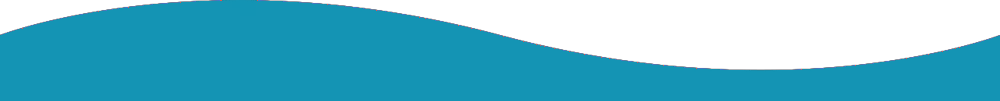
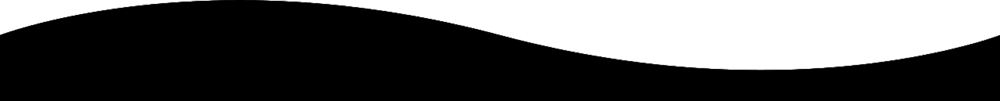
Footer modification

diff --git a/client/src/components/Footer.css b/client/src/components/Footer.css
@@ -1,11 +1,9 @@
 .footer {
-  /* background-color: #1697b7; */
-  background-color: #F3F4F6;
+  background-color: black;
   font-size: 1.2rem;
   padding: 2rem 0;
   margin-top: 10rem;
   /* margin-left: 12rem; */
-  
   position: relative;
 }
 .footer-col1 a {
@@ -17,9 +15,11 @@
   letter-spacing: 2px;
 }
 .footer-col1 span {
+  font-size: 20px;
   color: #e7804b;
 }
 .footer-col1 p {
+  color: #fff;
   padding: 0 5rem 0.8rem 0;
   text-align: justify;
 }
@@ -29,27 +29,31 @@
 }
 .footer-icons i {
   display: inline-block;
-  background-color: #a9a9a95e;
+  background-color: white;
   color: #e7804b;
   border-radius: 50%;
-  font-size: 1.5rem;
   padding: 0.5rem;
   margin: 0 0.5rem;
   transition: 0.6s;
 }
 .footer-icons i:hover {
   background-color: #e7804b;
-  color: #f3f3f3;
+  color: white;
   transform: translateY(-10px);
   cursor: pointer;
 }
 .footer h3 {
-  color:#f3f3f3;
+  color: white;
 }
-
+.footer-col2 h3 {
+  color: #e7804b;
+}
 .footer-col2 ul {
   list-style: none;
   padding-left: 0;
+}
+.footer-col2 li {
+  color: #fff;
 }
 .footer-col2 ul a {
   text-decoration: none;
@@ -60,103 +64,98 @@
 }
 .footer-col2 ul li:hover {
   opacity: 0.75;
+  color: #e7804b;
 }
-
+.footer-col3 h3 {
+  color: #e7804b;
+}
 .footer-col3 i {
   position: absolute;
   font-size: 1.5rem;
+  color:#e7804b
 }
 .footer-col3 p {
+  color: #fff;
   padding-left: 30px;
   font-size: 1.2rem;
 }
 .footer-end {
-margin-top:2rem;
+  margin-top: 2rem;
   text-align: center;
   padding: 2rem 0;
   border-top: 4px solid #fff;
+  color: #fff;
+}
 
-}
-.footer-end p {
-  font-size: 1.2rem;
-  font-weight: 600;
-}
 .custom-shape-divider-top-1702510797 {
-    position: absolute;
-    top: 15rem;
-    left: 0;
-    width: 100%;
-    overflow: hidden;
-    line-height: 0;
+  position: absolute;
+  top: 15rem;
+  left: 0;
+  width: 100%;
+  overflow: hidden;
+  line-height: 0;
 }
 
 .custom-shape-divider-top-1702510797 svg {
-    display: block;
-    width: calc(122% + 1.3px);
-    height: 500px;
-    transform: rotate(180deg);
-
+  display: block;
+  width: calc(122% + 1.3px);
+  height: 500px;
+  transform: rotate(180deg);
 }
 
 /* .custom-shape-divider-top-1702510797 .shape-fill {
     fill: #1697B7;
 } */
 
-.waves{
-    margin-top:5rem;
+.waves {
+  margin-top: 5rem;
 }
-.wave{
-    position: absolute;
-    top:-100px;
-    left:0;
-    width: 100%;
-    height: 100px;
-    background: url(./assets/waves.png);
-    background-size:1000px 100px;
-
+.wave {
+  position: absolute;
+  top: -100px;
+  left: 0;
+  width: 100%;
+  height: 100px;
+  background: url(./assets/waves.png);
+  background-size: 1000px 100px;
 }
-.wave#wave1{
-    z-index: 1000;
-    opacity: 0.9;
-    bottom: 0;
-    animation: animateWave 4s linear infinite;
+.wave#wave1 {
+  z-index: 1000;
+  opacity: 0.9;
+  bottom: 0;
+  animation: animateWave 4s linear infinite;
 }
-.wave#wave2{
-    z-index: 999;
-    opacity: 0.3;
-    bottom: 10px;
-    animation: animateWave2 4s linear infinite;
+.wave#wave2 {
+  z-index: 999;
+  opacity: 0.3;
+  bottom: 10px;
+  animation: animateWave2 4s linear infinite;
 }
-.wave#wave3{
-    z-index: 1000;
-    opacity: 0.2;
-    bottom: 15px;
-    animation: animateWave 4s linear infinite;
+.wave#wave3 {
+  z-index: 1000;
+  opacity: 0.2;
+  bottom: 15px;
+  animation: animateWave 4s linear infinite;
 }
-.wave#wave4{
-    z-index: 999;
-    opacity: 0.7;
-    bottom: 20px;
-    animation: animateWave2 4s linear infinite;
+.wave#wave4 {
+  z-index: 999;
+  opacity: 0.7;
+  bottom: 20px;
+  animation: animateWave2 4s linear infinite;
 }
 @keyframes animateWave {
-    0%
-    {
-        background-position-x: 1000px;
-    }
-    100%
-    {
-        background-position-x:0px ;
-    }
-    
+  0% {
+    background-position-x: 1000px;
+  }
+  100% {
+    background-position-x: 0px;
+  }
 }
 @keyframes animateWave2 {
-    0%
-    {
-        background-position-x: 0px;
-    }
-    100%
-    {
-        background-position-x:1000px ;
-    }
+  0% {
+    background-position-x: 0px;
+  }
+  100% {
+    background-position-x: 1000px;
+  }
 }

diff --git a/client/src/components/CarrouselHome.jsx b/client/src/components/CarrouselHome.jsx
@@ -1,8 +1,4 @@
 import Carousel from 'react-bootstrap/Carousel';
-import bg1 from "./assets/Background1.jpg";
-import bg2 from "./assets/Background2.jpg";
-import bg3 from "./assets/Background3.jpg";
-import bg4 from "./assets/Background4.jpg";
 import bg5 from "./assets/Background5.jpg";
 import bg6 from "./assets/Background6.jpg";
 import bg7 from "./assets/Background7.jpg";
@@ -22,8 +18,7 @@ function DarkVariantExample() {
           alt="First slide"
         />
         <Carousel.Caption>
-          <h5>First slide label</h5>
-          <p>Nulla vitae elit libero, a pharetra augue mollis interdum.</p>
+          <h3 style={{color:'white'}}>Check our latest promotions</h3>
         </Carousel.Caption>
       </Carousel.Item>
       <Carousel.Item  style={carouselItemStyle}>
@@ -32,10 +27,6 @@ function DarkVariantExample() {
           src={bg5}
           alt="Second slide"
         />
-        <Carousel.Caption>
-          <h5>Second slide label</h5>
-          <p>Lorem ipsum dolor sit amet, consectetur adipiscing elit.</p>
-        </Carousel.Caption>
       </Carousel.Item>
       <Carousel.Item style={carouselItemStyle}>
         <img
@@ -43,13 +34,6 @@ function DarkVariantExample() {
           src={bg6}
           alt="Third slide"
         />
-        <Carousel.Caption>
-          <h5>Third slide label</h5>
-          <p>
-            Praesent commodo cursus magna, vel scelerisque nisl consectetur.
-          </p>
-        </Carousel.Caption>
-
       </Carousel.Item>
     </Carousel>
   );

diff --git a/client/src/components/Footer.jsx b/client/src/components/Footer.jsx
@@ -49,16 +49,16 @@ export const Footer = () => {
               <h3>Quick Links</h3>
               <ul>
                 <li>
-                  <Link to="/">Services</Link>
+                  <Link to="/">Home</Link>
                 </li>
                 <li>
-                  <Link to="/">About Us</Link>
+                  <Link to="/aboutUs">About Us</Link>
                 </li>
                 <li>
-                  <Link to="/">Products</Link>
+                  <Link to="/womenProducts">Woman</Link>
                 </li>
                 <li>
-                  <Link to="/">Become a partner</Link>
+                  <Link to="/menProducts">Men</Link>
                 </li>
               </ul>
             </Col>
